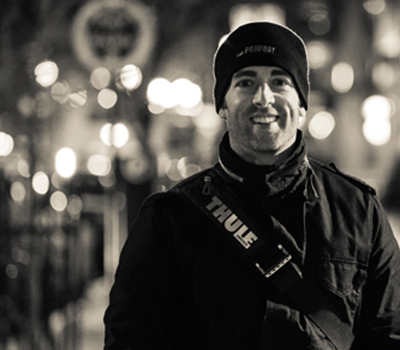
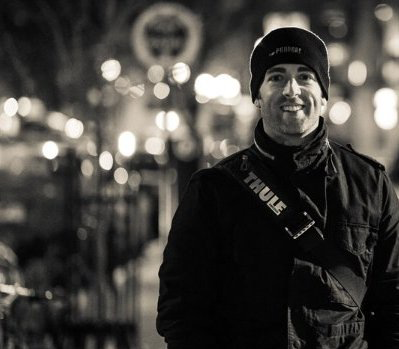
changes to css, html for home page and donate. changed images in the team section, added an iframe video to the how ti works section.

diff --git a/app/assets/stylesheets/more_info.css.scss b/app/assets/stylesheets/more_info.css.scss
@@ -35,87 +35,91 @@ body { @include raleway(); min-width: 1050px; }
     h1 {
       margin-top:60px;
       @include ralewayLight();
-  }
-
-  #button_more_info {
-    text-transform:uppercase;
-    background-color:$pink;
-    font-size:16px;
-    padding:15px;
-    padding-left:25px;
-    padding-right:25px;
-    border:solid $grey 1px;
-    -webkit-border-radius:8px;
-    -moz-border-radius:8px;
-    -o-border-radius:8px;
-    border-radius:8px;
-    position:absolute;
-    margin-top:30px;
-  }
-
-  a {
-    text-decoration:none;
-    color:$teal;
     }
 
-    img {
+    .donate_text {
+      width:85%
+    }
+
+    #button_more_info {
+      text-transform:uppercase;
+      background-color:$pink;
+      font-size:16px;
+      padding:15px;
+      padding-left:25px;
+      padding-right:25px;
+      border:solid $grey 1px;
+      -webkit-border-radius:8px;
+      -moz-border-radius:8px;
+      -o-border-radius:8px;
+      border-radius:8px;
+      position:absolute;
+      margin-top:30px;
+    }
+
+    a {
+      text-decoration:none;
+      color:$teal;
+      }
+
+      img {
+        width:400px;
+        height:350px;
+    }
+
+    #scale_outline {
+      display:none;
       width:400px;
-      height:350px;
-  }
+      height:30px;
+      border:solid $light_grey 1px;
+      -webkit-border-radius:8px;
+      -moz-border-radius:8px;
+      -o-border-radius:8px;
+      border-radius:8px;
+      opacity:.5;
+      position:absolute;
+      margin-top:15px;
+    }
 
-  #scale_outline {
-    display:none;
-    width:400px;
-    height:30px;
-    border:solid $light_grey 1px;
-    -webkit-border-radius:8px;
-    -moz-border-radius:8px;
-    -o-border-radius:8px;
-    border-radius:8px;
-    opacity:.5;
-    position:absolute;
-    margin-top:15px;
-  }
+    #scale_measurement {
+      display:none;
+      width:200px;
+      height:28px;
+      background-color:$teal;
+      -webkit-border-radius:8px;
+      -moz-border-radius:8px;
+      -o-border-radius:8px;
+      border-radius:8px;
+      position:absolute;
+      margin-top:17px;
+      margin-left:2px;
+    }
 
-  #scale_measurement {
-    display:none;
-    width:200px;
-    height:28px;
-    background-color:$teal;
-    -webkit-border-radius:8px;
-    -moz-border-radius:8px;
-    -o-border-radius:8px;
-    border-radius:8px;
-    position:absolute;
-    margin-top:17px;
-    margin-left:2px;
-  }
+    #base_number {
+      display:none;
+      @include ralewayLight();
+      color:$teal;
+      position:absolute;
+      margin-top:60px;
+    }
 
-  #base_number {
-    display:none;
-    @include ralewayLight();
-    color:$teal;
-    position:absolute;
-    margin-top:60px;
-  }
+    #full_amount {
+      display:none;
+      @include ralewayLight();
+      color:$teal;
+      position:absolute;
+      margin-top:60px;
+      margin-left:350px;
+    }
 
-  #full_amount {
-    display:none;
-    @include ralewayLight();
-    color:$teal;
-    position:absolute;
-    margin-top:60px;
-    margin-left:350px;
+    #info_paragraph {
+      width:50%;
+      margin-left:490px;
+      line-height:1.5;
+      position:absolute;
+      margin-top:-387px;
+    }
   }
-
-  #info_paragraph {
-    width:50%;
-    margin-left:490px;
-    line-height:1.5;
-    position:absolute;
-    margin-top:-387px;
-  }
-}
 }
 
 @media screen and (max-width: 1200px) {
